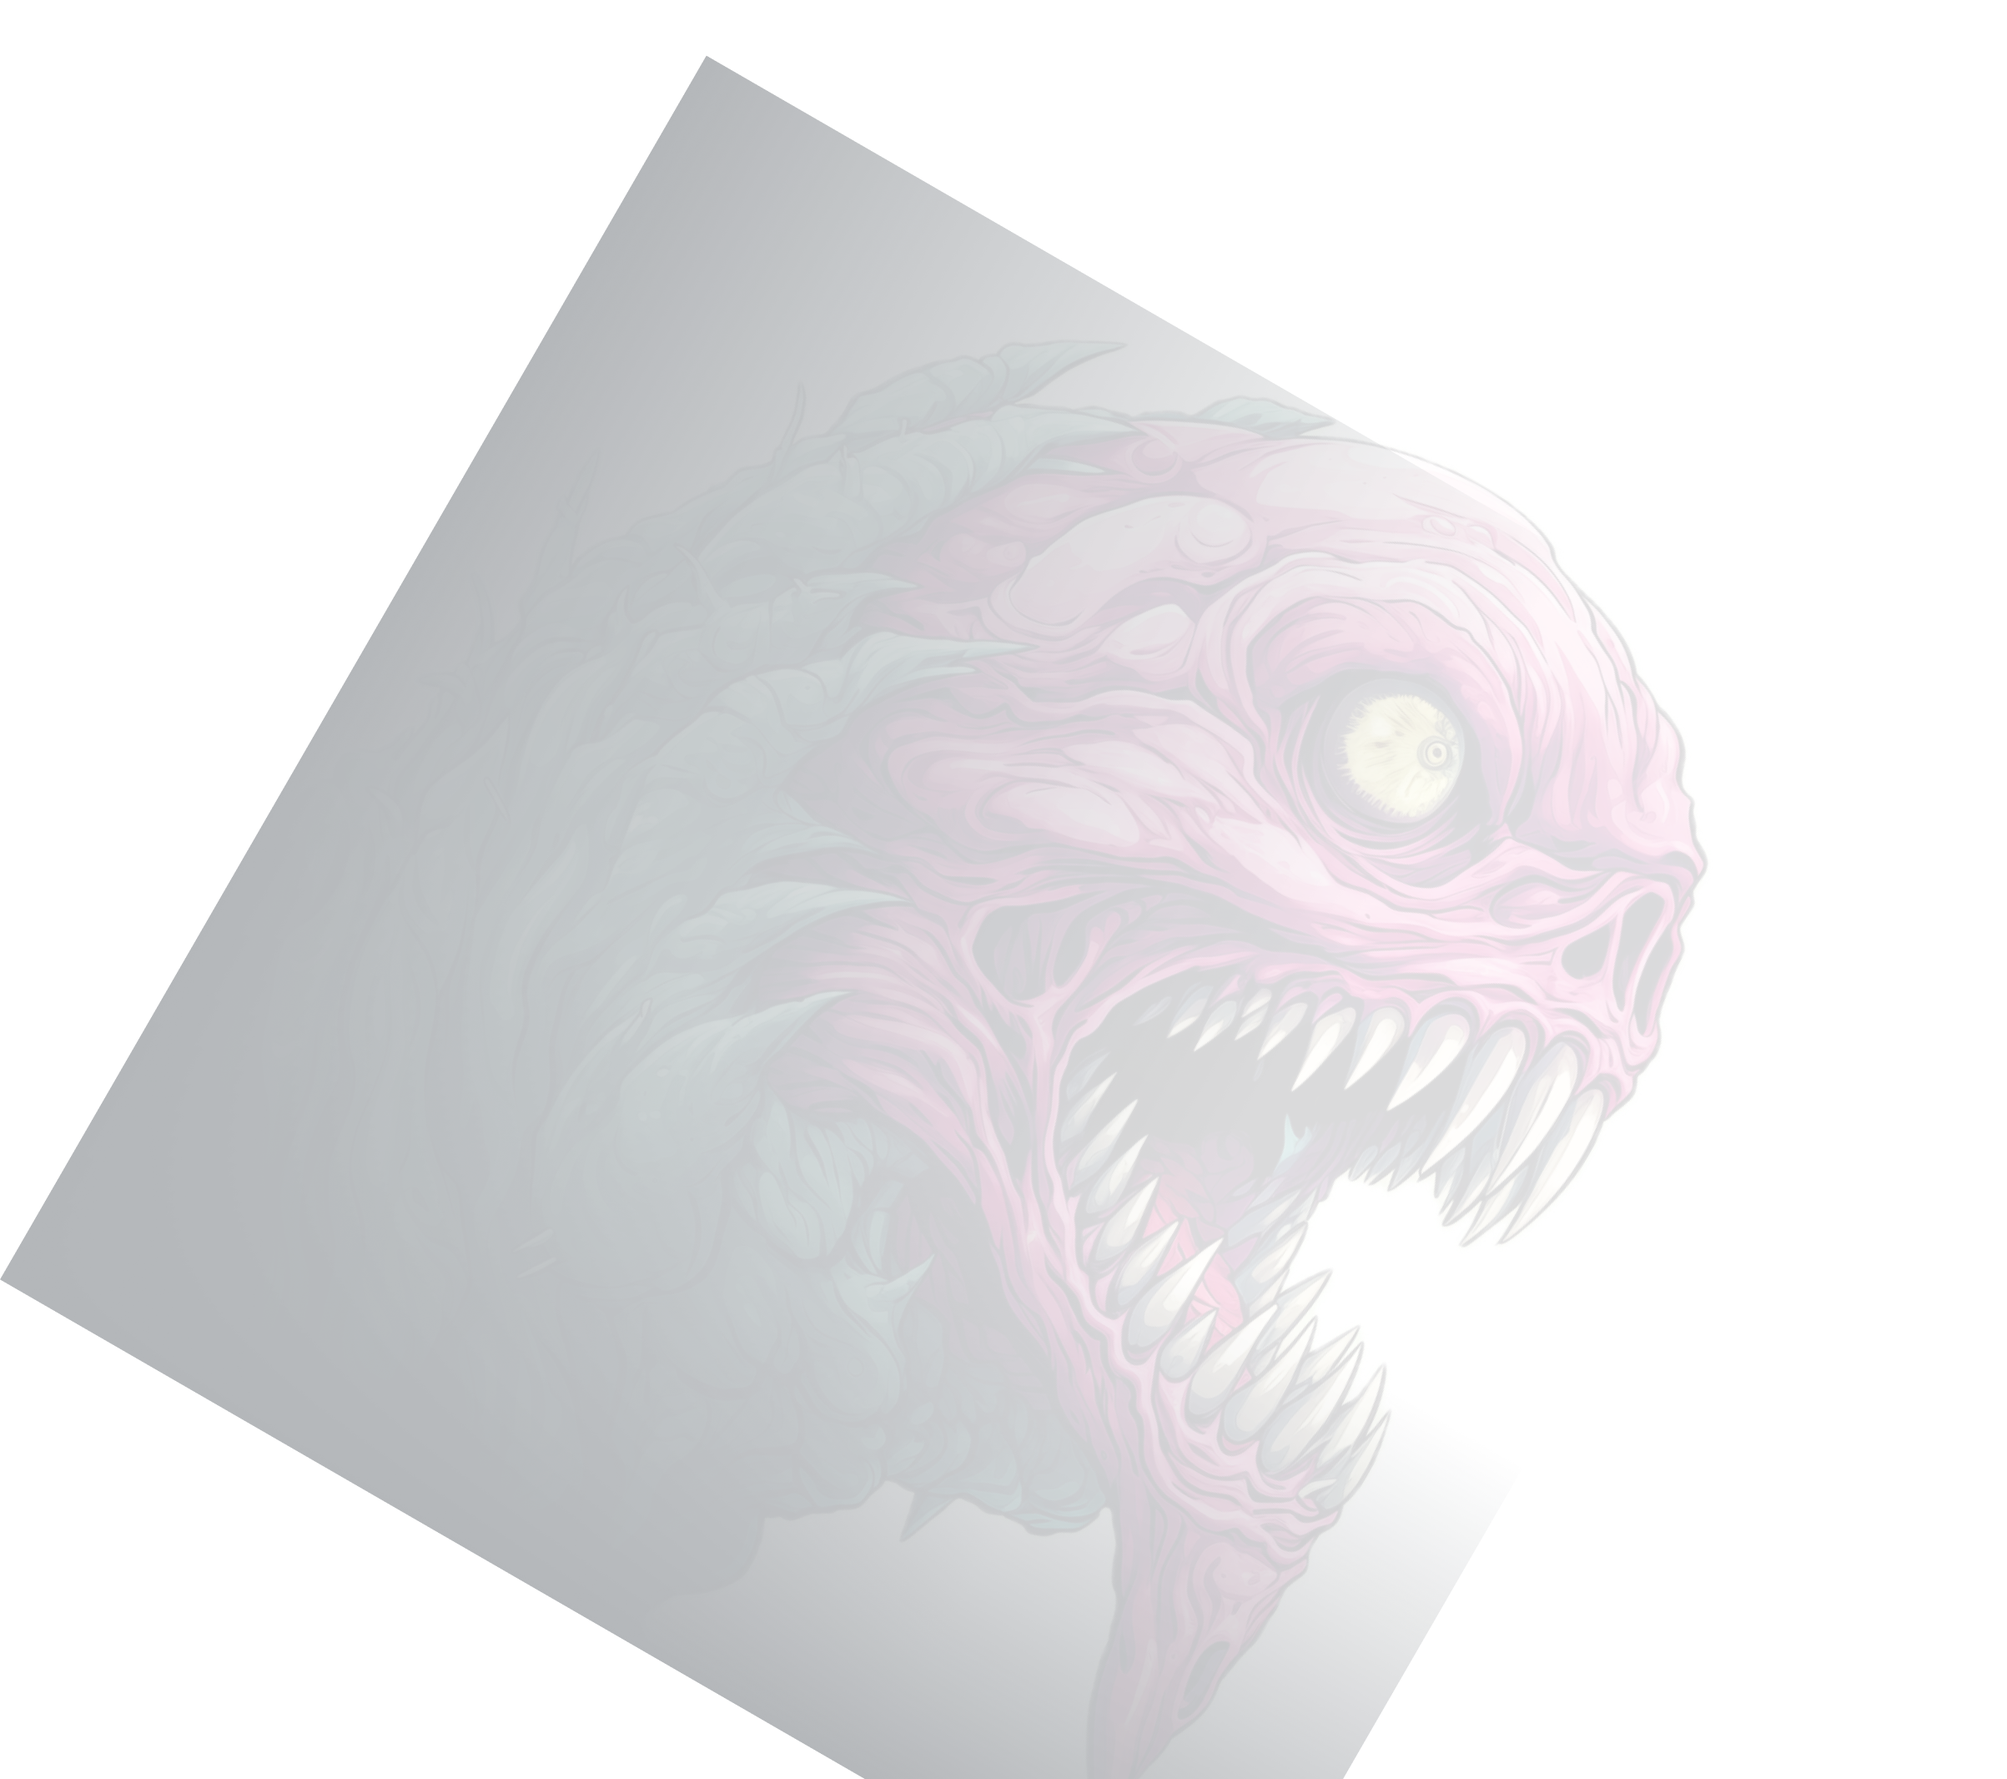
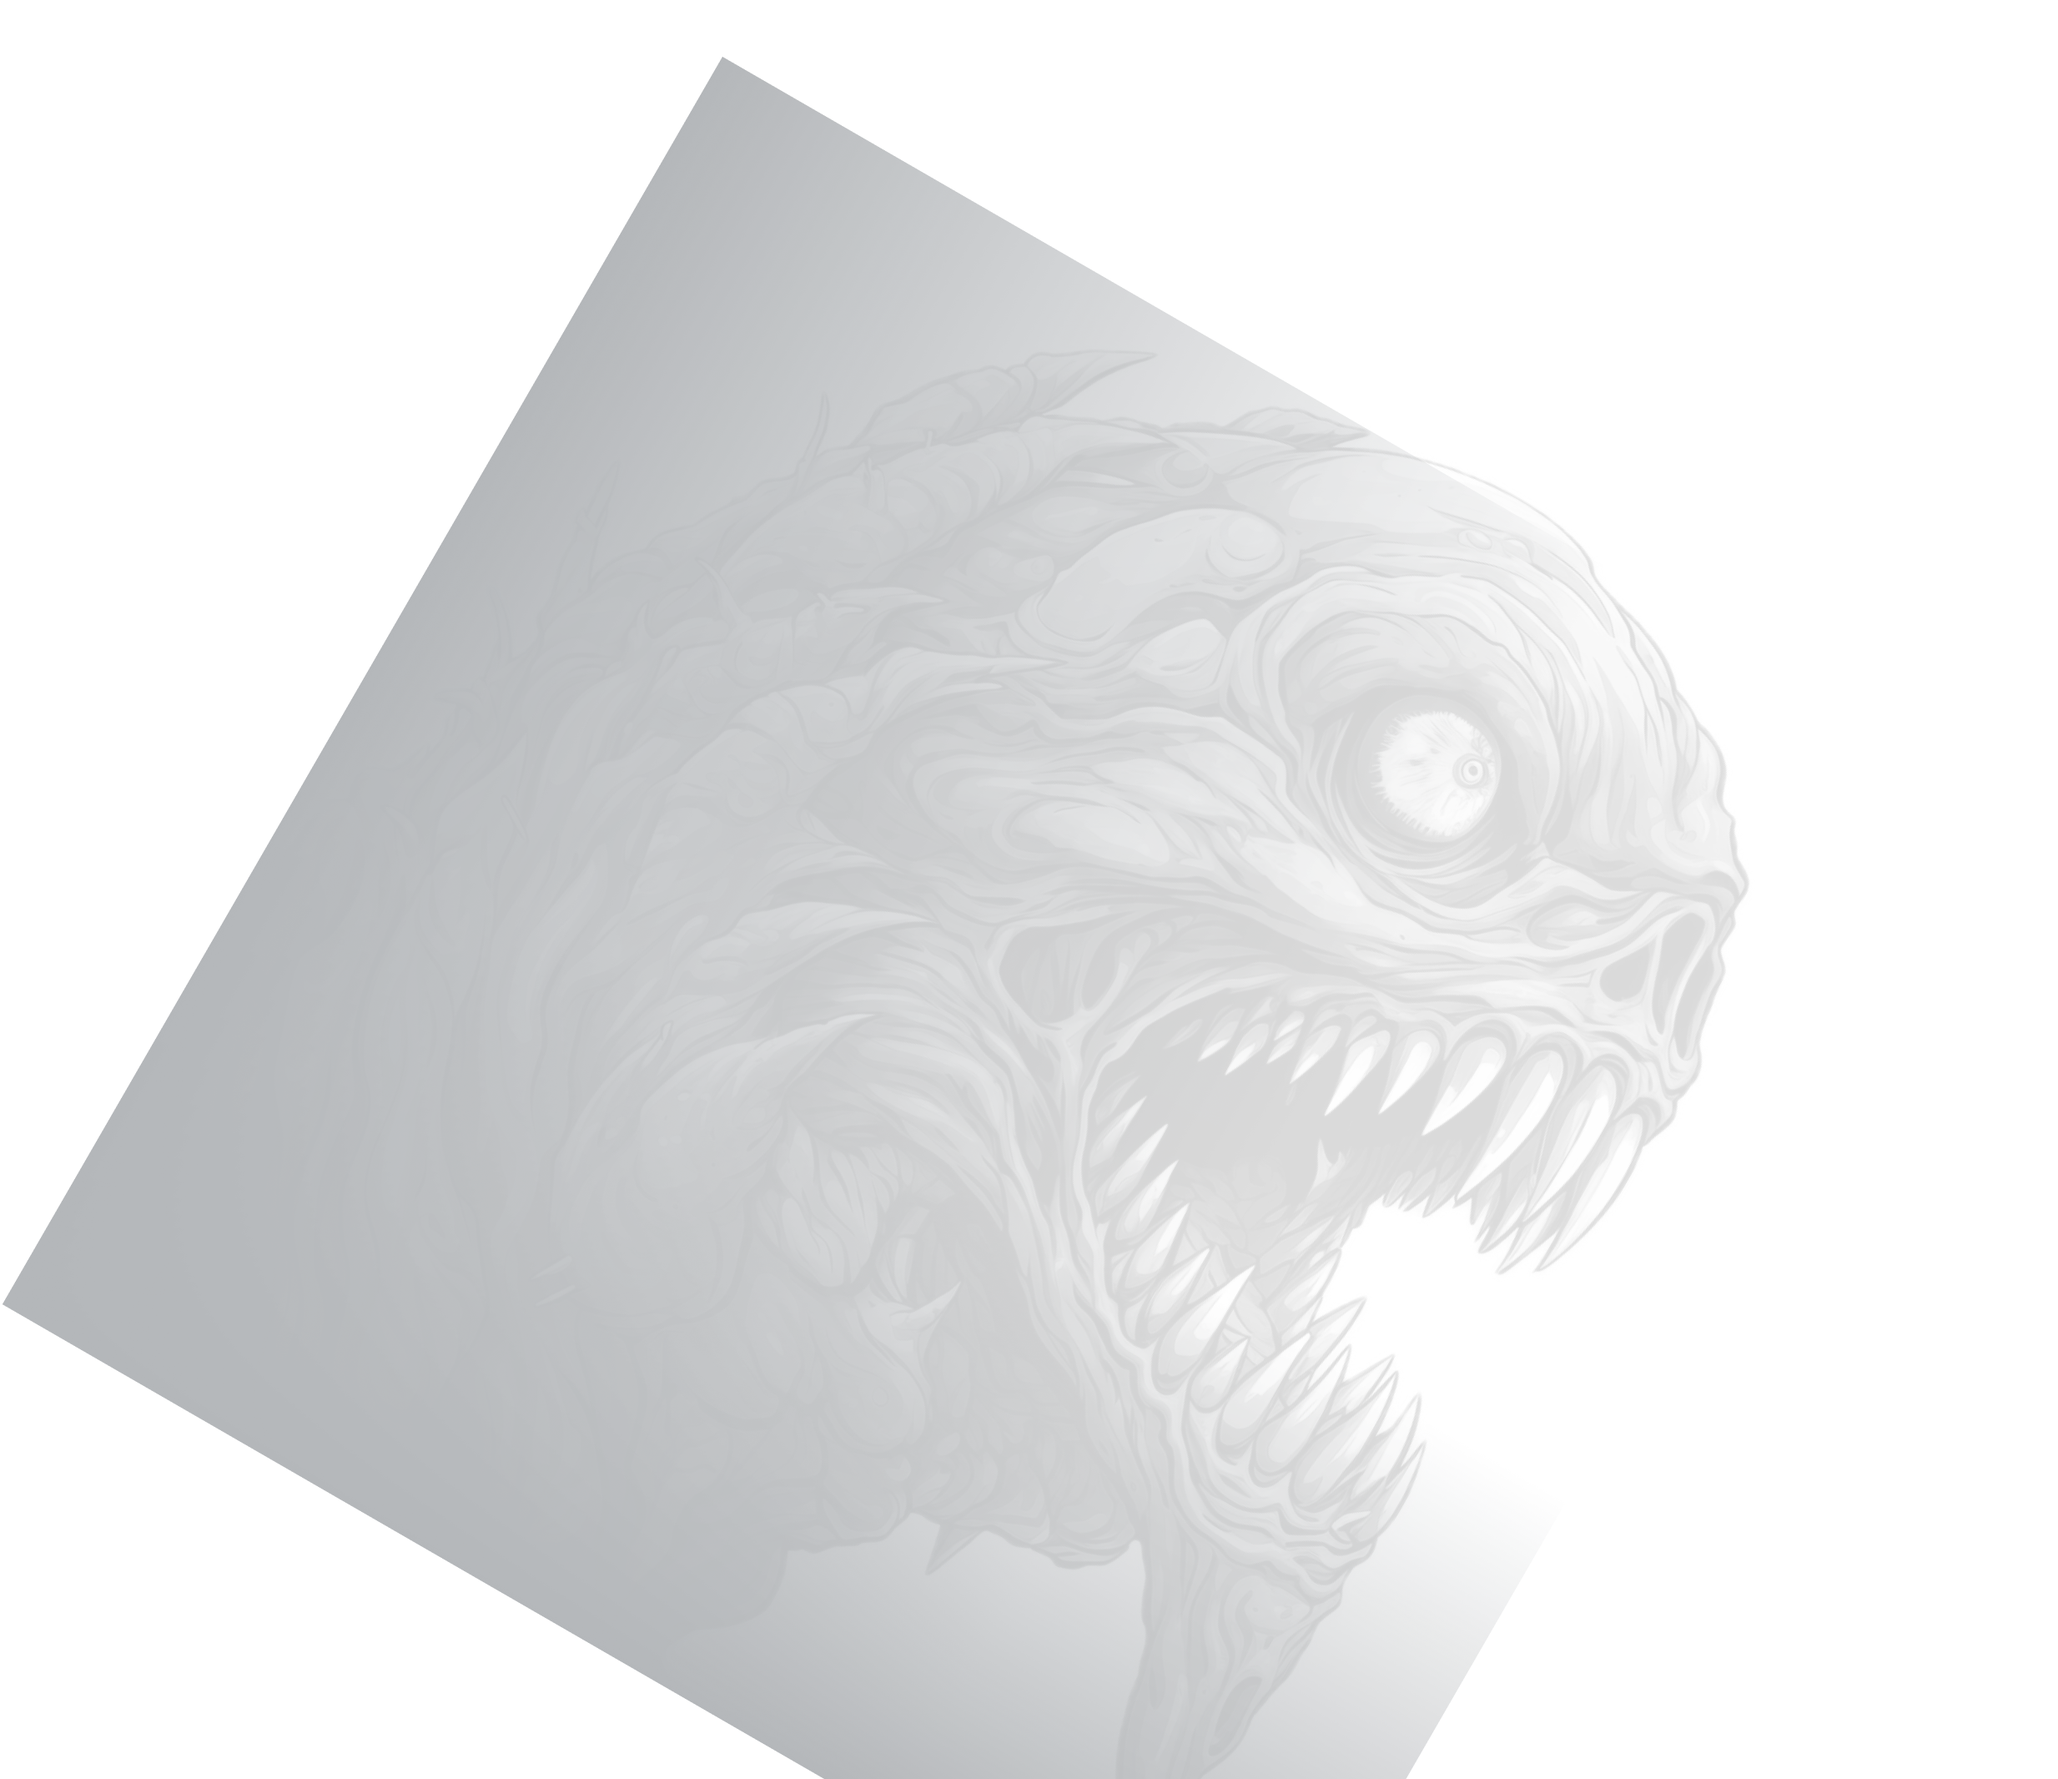
minor

diff --git a/src/components/pages/stake/StakeLanding.tsx b/src/components/pages/stake/StakeLanding.tsx
@@ -154,12 +154,11 @@ export default function StakeLanding() {
         <div className="bg-main rounded-lg border p-1 mt-10">
           <Table
             className="bg-transparent border-none"
-            columnsTitles={
-              token.name === 'ADX'
-                ? ['liquid', '180d', '360d', '540d', '720d']
-                : ['180d', '360d', '540d', '720d']
-            }
+            columnsTitles={token.days.map((d) =>
+              d === 0 ? 'liquid' : `${d}d`,
+            )}
             columnTitlesClassName="text-base text-white"
+            columnWrapperClassName="ml-1"
             data={[
               {
                 rowTitle: 'USDC yield',
@@ -191,7 +190,7 @@ export default function StakeLanding() {
         <Image
           src={alpMonster}
           alt="ALP Monster"
-          className="absolute bottom-0 left-0 w-1/2 grayscale"
+          className="absolute bottom-0 left-0 w-1/2 grayscale scale-[0.75]"
         />
         <div
           className="hidden sm:block absolute left-0 top-0 w-1/2 h-full flex-1 opacity-60"
@@ -210,7 +209,7 @@ export default function StakeLanding() {
         <Image
           src={adxMonster}
           alt="ADX Monster"
-          className="absolute bottom-0 right-0 w-1/2 grayscale"
+          className="absolute bottom-10 right-0 w-1/2 grayscale"
         />
         <div
           className="hidden sm:block absolute right-0 top-0 w-1/2 h-full flex-1 opacity-60"

diff --git a/src/components/pages/monitoring/Table.tsx b/src/components/pages/monitoring/Table.tsx
@@ -13,11 +13,13 @@ export default function Table({
   data,
   rowTitleWidth,
   columnTitlesClassName,
+  columnWrapperClassName,
 }: {
   breakpoint?: string | null;
   className?: string;
   columnsTitles?: ReactNode[];
   columnTitlesClassName?: string;
+  columnWrapperClassName?: string;
   data: (
     | {
         rowTitle: ReactNode;
@@ -38,7 +40,7 @@ export default function Table({
     <StyledSubSubContainer className={twMerge('flex flex-col', className)}>
       <div className="flex pb-2">
         <div
-          className="flex shrink-0 ml-2"
+          className={twMerge('flex shrink-0 ml-2', columnWrapperClassName)}
           style={{
             width: rowTitleWidth ?? '150px',
           }}
